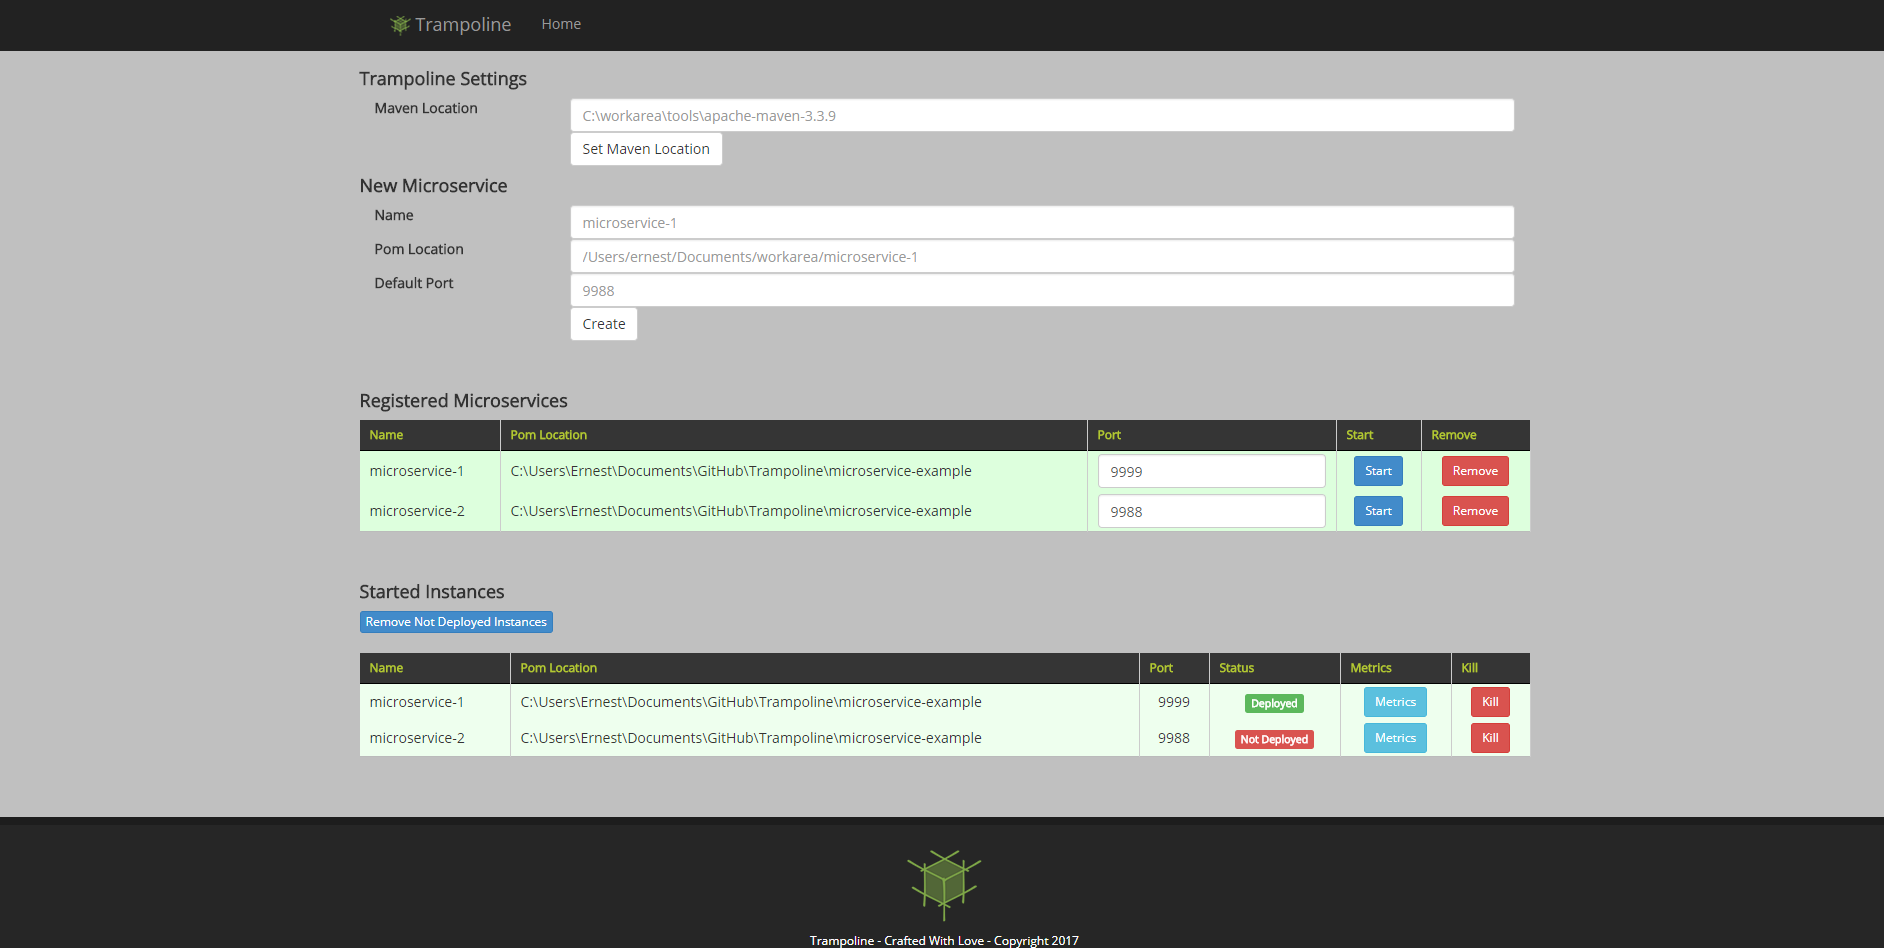
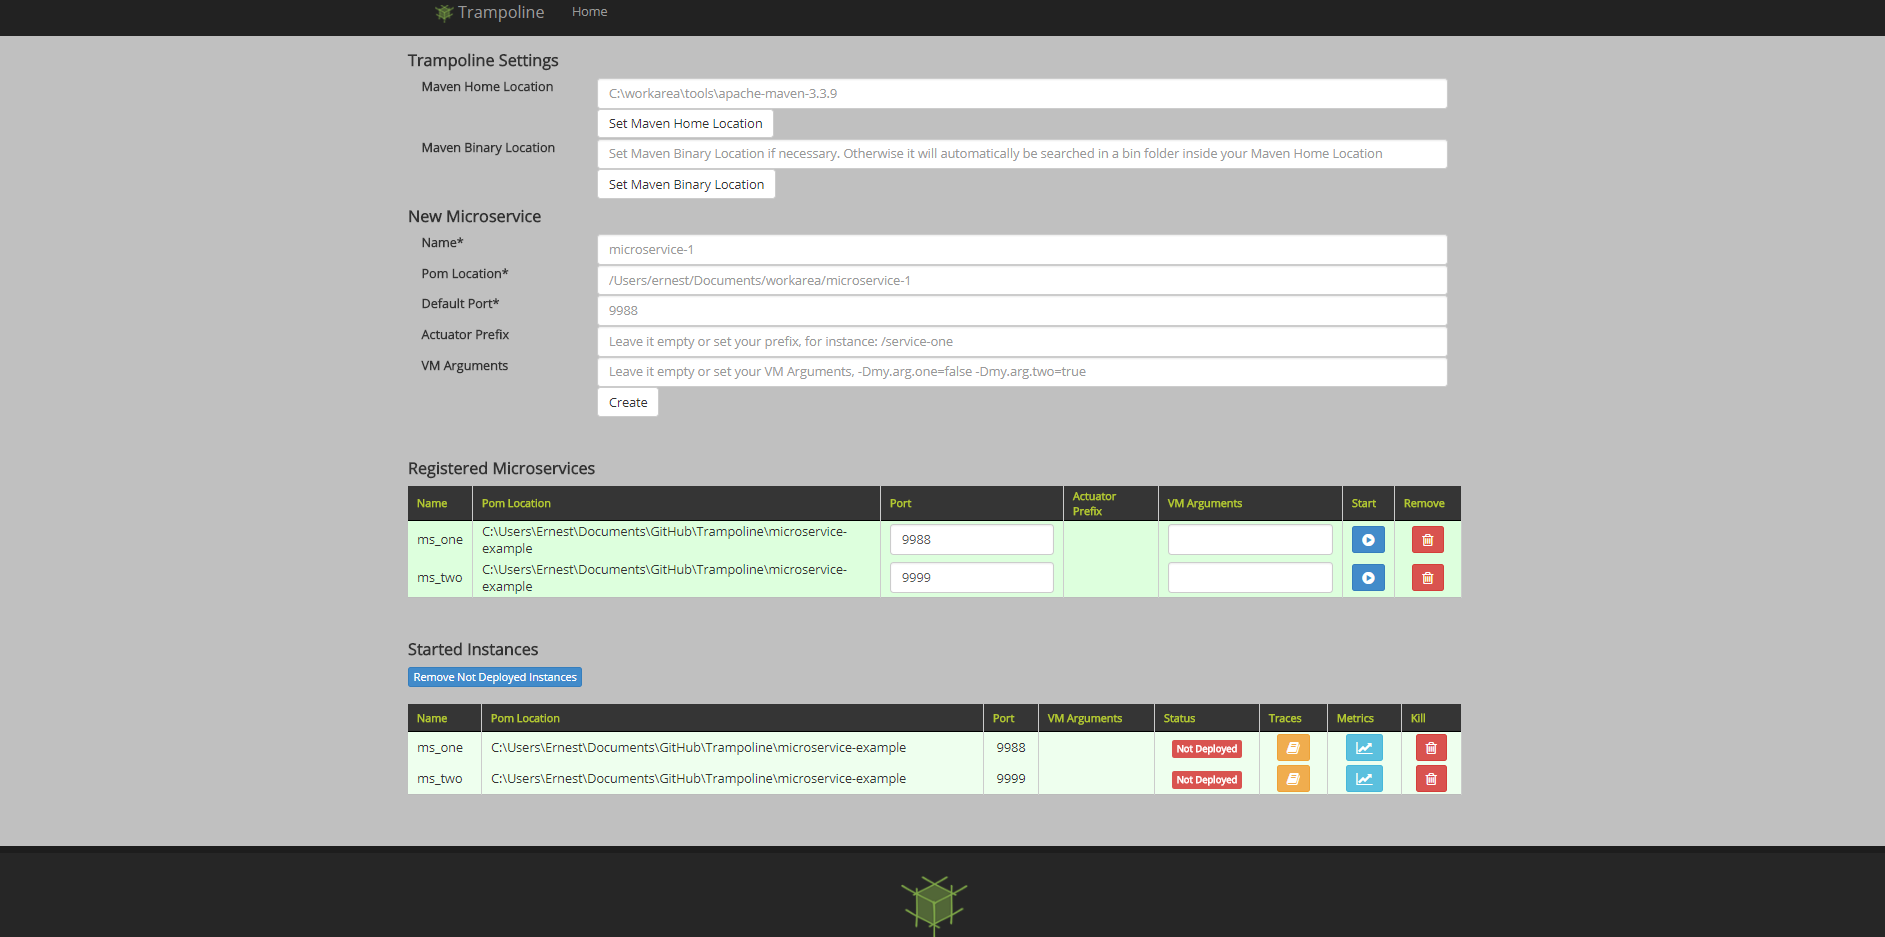
Minor changes
* Updating documentation
* Adding José Antonio Iñigo as a team member
* Increasing Spring Boot vesrion (1.5) example

diff --git a/trampoline/src/main/resources/templates/home.html b/trampoline/src/main/resources/templates/home.html
@@ -84,19 +84,19 @@ body {
 				<strong>New Microservice</strong>
 			</h4>
 			 <div class="form-group" id="form-newmicroservice-name">
-			    <label for="inputEmail3" class="col-sm-2 control-label">Name</label>
+			    <label for="inputEmail3" class="col-sm-2 control-label">Name*</label>
 			    <div class="col-sm-10">
 			      <input type="email" class="form-control" id="input-newmicroservice-name" placeholder="microservice-1"/>
 			    </div>
 			  </div>
 			   <div class="form-group" id="form-newmicroservice-pomlocation">
-			    <label for="inputEmail3" class="col-sm-2 control-label">Pom Location</label>
+			    <label for="inputEmail3" class="col-sm-2 control-label">Pom Location*</label>
 			    <div class="col-sm-10">
 			      <input type="email" class="form-control" id="input-newmicroservice-pomlocation" placeholder="/Users/ernest/Documents/workarea/microservice-1"/>
 			    </div>
 			  </div>
 			   <div class="form-group" id="form-newmicroservice-defaultport">
-			    <label for="inputEmail3" class="col-sm-2 control-label">Default Port</label>
+			    <label for="inputEmail3" class="col-sm-2 control-label">Default Port*</label>
 			    <div class="col-sm-10">
 			      <input type="email" class="form-control" id="input-newmicroservice-defaultport" placeholder="9988"/>
 			    </div>
@@ -104,13 +104,13 @@ body {
 			  <div class="form-group" id="form-newmicroservice-actuatorprefix">
 			    <label for="inputEmail4" class="col-sm-2 control-label">Actuator Prefix</label>
 			    <div class="col-sm-10">
-			      <input type="email" class="form-control" id="input-newmicroservice-actuatorprefix" placeholder=""/>
+			      <input type="email" class="form-control" id="input-newmicroservice-actuatorprefix" placeholder="Leave it empty or set your prefix, for instance: /service-one"/>
 			    </div>
 			  </div>
 			  <div class="form-group" id="form-newmicroservice-vmarguments">
 			    <label for="inputEmail5" class="col-sm-2 control-label">VM Arguments</label>
 			    <div class="col-sm-10">
-			      <input type="email" class="form-control" id="input-newmicroservice-vmarguments" placeholder=""/>
+			      <input type="email" class="form-control" id="input-newmicroservice-vmarguments" placeholder="Leave it empty or set your VM Arguments, -Dmy.arg.one=false -Dmy.arg.two=true"/>
 			    </div>
 			  </div>
 			  <div class="form-group">

diff --git a/docs/index.html b/docs/index.html
@@ -192,8 +192,8 @@
 									<p class="role">Creator</p>
 									<p>Senior Software Engineer working at Clarivate Analytics. Previosly worked at Thomson Reuters, Deutsche Bank and Roche Diagnostics. Java and Spring Lover.</p>
 									<ul class="fh5co-social">
-										<li><a href="https://twitter.com/ernichegevara"><i class="icon-twitter"></i></a></li>
 										<li><a href="https://es.linkedin.com/in/ernest-ortuño-b953903a/en"><i class="icon-linkedin"></i></a></li>
+										<li><a href="https://twitter.com/ernichegevara"><i class="icon-twitter"></i></a></li>
 									</ul>
 								</div>
 							</div>
@@ -203,6 +203,18 @@
 									<h2>Veronica Vizcaino</h2>
 									<p class="role">Communication Advisor</p>
 									<p>Working as a Communication Coordinator on several start-ups has joined Trampoline team to advise on how to manage project advertisement.</p>
+								</div>
+							</div>
+							<div class="item">
+								<div class="gtco-staff">
+									<img src="images/staff_4.jpg" alt="" class="img-responsive">
+									<h2>José Antonio Iñigo</h2>
+									<p class="role">Contributor</p>
+									<p>Software Architect on Profile. My main areas on interest are Cloud technologies (including microservices, reactive applications and data stream processing), DevOps and infrastructure automation.</p>
+									<ul class="fh5co-social">
+										<li><a href="https://es.linkedin.com/in/jose-antonio-%C3%AD%C3%B1igo-garrido-65940947/en"><i class="icon-linkedin"></i></a></li>
+										<li><a href="https://stackoverflow.com/users/1729795/codependent">stack overflow</a></li>
+									</ul>
 								</div>
 							</div>
 							<div class="item">

diff --git a/README.md b/README.md
@@ -8,7 +8,10 @@ Are you developing an application based on the _paradigm of microservices_ using
 
 The aim is to **help during the course of developing an application based on the paradigm of microservices with _spring boot nature_**. How? Easy, thanks to a **comfortable interface** you can **declare new microservices**, **starting instances** and **kill them**.
 
-Also you will be able to monitor memory usage for each instance, capturomg their metrics every 30 seconds.
+Also you will be able to:
+* Configurable Actuator endpoint & VM arguments
+* Monitor memory usage for each instance, capturing their metrics every 30 seconds.
+* Monitor intances traces any point in time
 
 ### Requirements
 
@@ -30,6 +33,20 @@ Also you will be able to monitor memory usage for each instance, capturomg their
 ![Alt text](https://github.com/ErnestOrt/Trampoline/blob/master/ScreenshotTrampoline.png)
 
 ![Alt text](https://github.com/ErnestOrt/Trampoline/blob/master/ScreenshotTrampolineMetrics.png)
+
+![Alt text](https://github.com/ErnestOrt/Trampoline/blob/master/ScreenshotTrampolineTraces.png)
+
+* I am working with Spring Boot 1.3 or less and instances do not start.
+
+You should add security starter on your microservices pom.xml:
+
+```
+<dependency>
+	<groupId>org.springframework.boot</groupId>
+	<artifactId>spring-boot-starter-security</artifactId>
+</dependency>
+
+```
 
 * Can I run it on any OS?.
 
